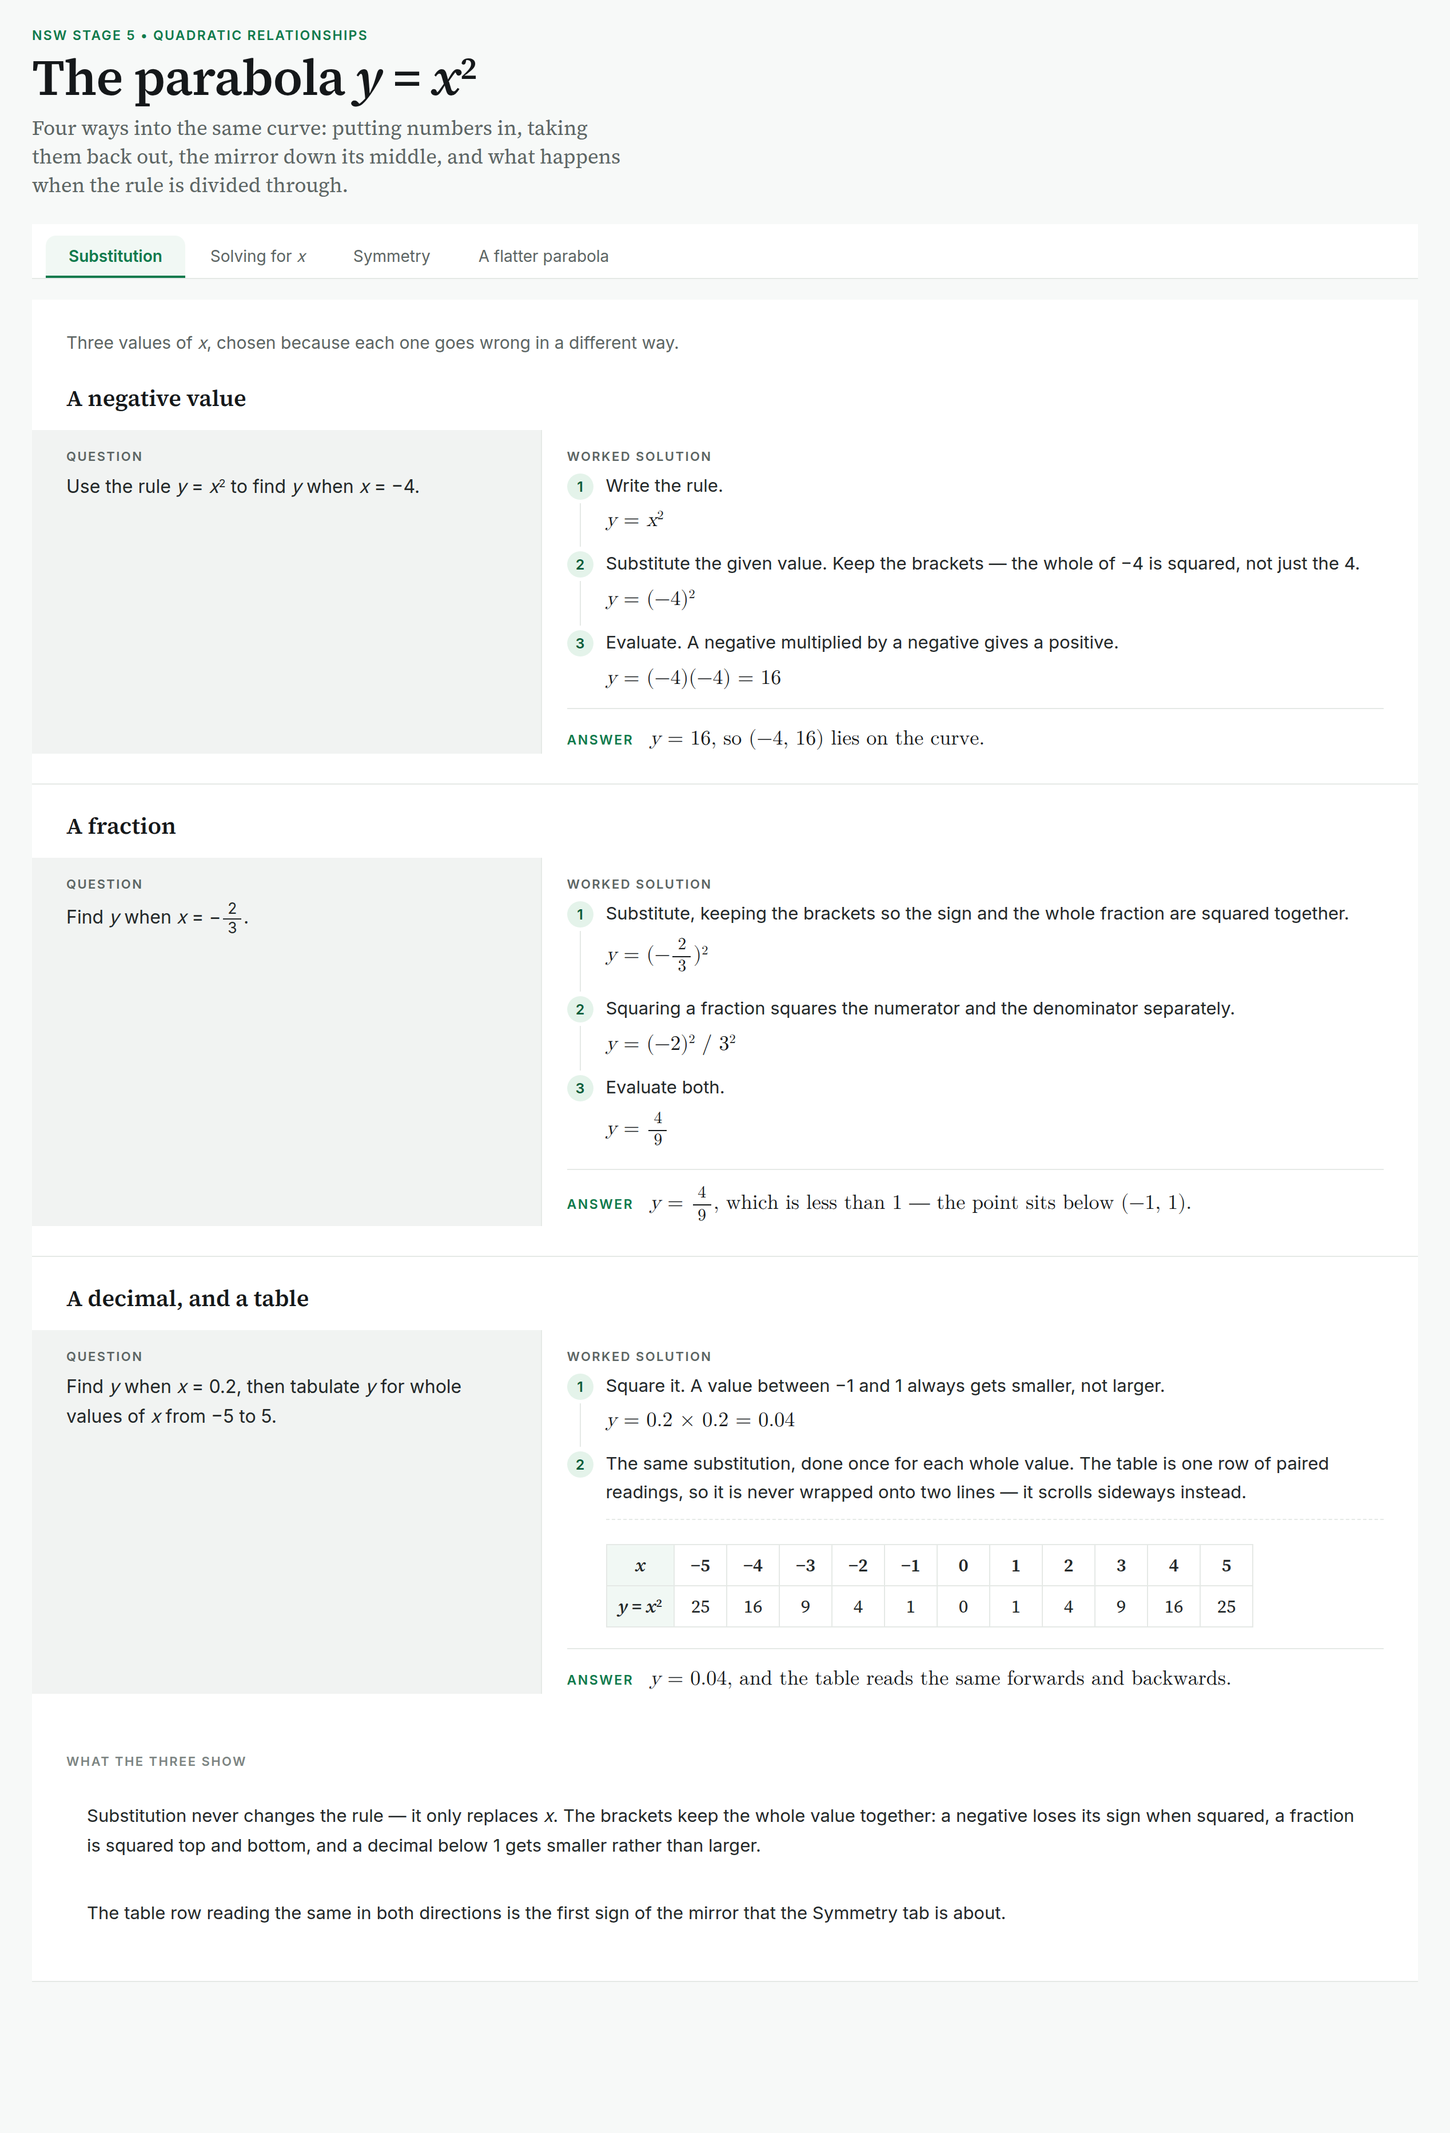
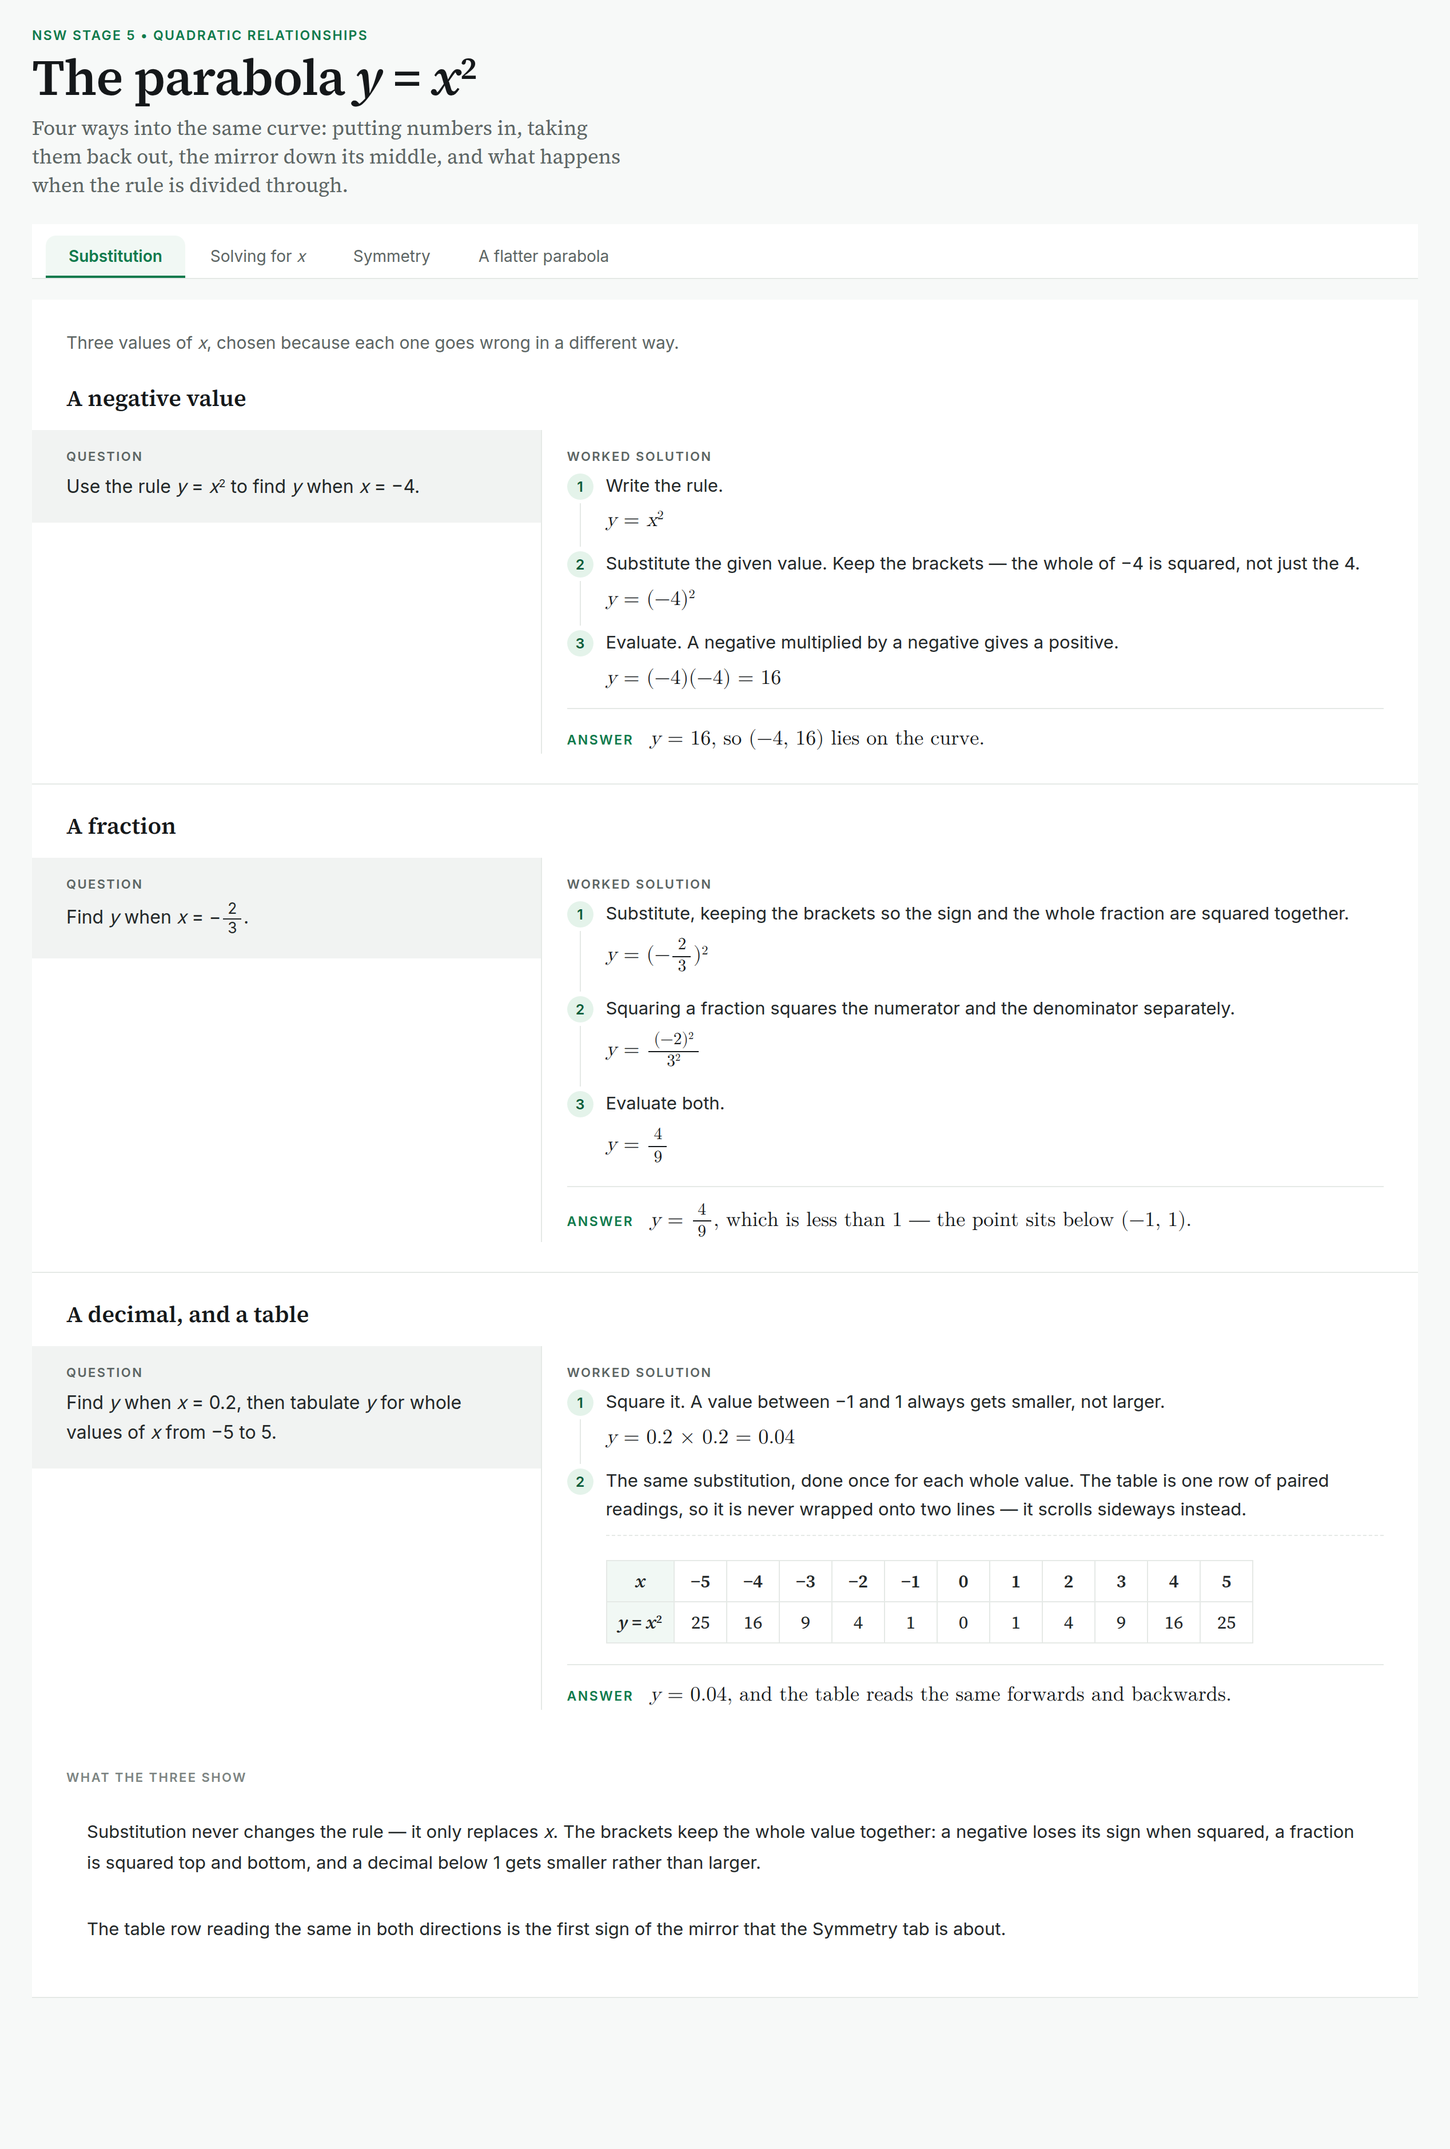
app: the question panel hugs its content, and a bracketed term is a term
Two corrections the maintainer asked for after reviewing the lesson running in
the application, plus the three-mode acceptance check.

THE QUESTION PANEL. A worked example forced both its QUESTION and its WORKED
SOLUTION to the row's full height, on the stated principle that "the regions are
aligned, never the amount of content in them". Measured on the real lesson that
painted a 63px question inside a 283px tinted panel — 220px of empty tint — and
the maintainer ruled that a defined region at that scale reads as a hole however
deliberately it was reserved. The regions now share a TOP EDGE, not a depth:

  question panel, desktop   283px -> 81px
  empty tint below it       220px -> 18px (its own padding)
  the rule between them     full band, unchanged

One declaration: align-self:start on .mx-wexask, scoped to split rows. NOT
align-items:start on the row, and the difference is not cosmetic — the rule
between the regions is the WORKING's left border, so the working has to go on
stretching or the rule stops short. Measured both ways against a deliberately
over-long question: with the row set to `start` the rule ended 350px above the
band; this way it spans it. Stacked already hugged. The comparison bridge's
three full-height zones and the media foot are a different rule and are
untouched. This is the same reasoning .mx-split already applies to the two Notes
columns a layer up.

THE CONTROL IS REVERSED, NOT DROPPED. verify-notes-examples required
[…]

diff --git a/lesson-studio.html b/lesson-studio.html
@@ -1970,9 +1970,13 @@ input.mx-cell:focus{outline:2px solid var(--mx-green);outline-offset:1px;border-
 /* THE PRIMITIVE — ONE WORKED EXAMPLE IS ONE NAMED-REGION RECTANGLE, and the browser lays out the regions:
        TITLE spanning the whole example
        QUESTION | WORKED SOLUTION … ANSWER
-   The prose and the mathematics merely flow inside them. THE REGIONS ARE ALIGNED, NEVER THE AMOUNT OF
-   CONTENT IN THEM: both regions take the row's full height, so a short question beside a long solution is a
-   short question in a visibly defined rectangle, not a hole. The same rules serve `standard` (one instance),
+   The prose and the mathematics merely flow inside them. THE REGIONS ARE ALIGNED AT THEIR TOP, AND EACH
+   TAKES THE HEIGHT ITS OWN CONTENT NEEDS. The alignment that matters is positional — one top edge, one
+   inset, one rule — not two backgrounds padded to a common depth. This reverses the earlier rule that made
+   both regions the row's full height: measured on the lesson, a 63px question was painted in a 283px tinted
+   panel, and 220px of empty tint reads as a hole however deliberately it was reserved. It is the same
+   reasoning `.mx-split` already applies to the two Notes columns a layer up. The same rules serve
+   `standard` (one instance),
    `sequence` (N instances, identical geometry at every count — no 2 + 1, no centred remainder), a staged
    state, an extended derivation and each case of a collapsed comparison. Nothing here reads a count. */
 .mx-wexseq{display:flex;flex-direction:column;margin:0 calc(-1 * var(--mx-surface-pad));}
@@ -2006,7 +2010,12 @@ input.mx-cell:focus{outline:2px solid var(--mx-green);outline-offset:1px;border-
 [data-mx-rows="split"] .mx-wexseq>.mx-wexex:not([data-mx-form="solo"]){
   grid-template-columns:minmax(calc(var(--mx-ask-min,300px) + var(--mx-ask-pad,16px)),36fr) minmax(calc(var(--mx-work-min,420px) + var(--mx-work-pad,22px) + 1px),64fr);
   grid-template-areas:"title title" "ask work";}
-[data-mx-rows="split"] .mx-wexseq>.mx-wexex:not([data-mx-form="solo"])>.mx-wexask{margin-right:0;padding-right:var(--mx-ask-pad,16px);}
+/* THE TINT ENDS WHERE THE QUESTION DOES. `align-self:start` on the ask alone — not `align-items:start` on
+   the row — because the working must go on stretching: the rule between them is the WORKING's left border,
+   so stretching only the ask's neighbour is what keeps that rule running the full band when the question is
+   the taller of the two. Measured both ways on a deliberately long question: with the row set to `start`
+   the rule stopped 350px short of the band; this way it spans it. Split only — stacked already hugs. */
+[data-mx-rows="split"] .mx-wexseq>.mx-wexex:not([data-mx-form="solo"])>.mx-wexask{margin-right:0;padding-right:var(--mx-ask-pad,16px);align-self:start;}
 [data-mx-rows="split"] .mx-wexseq>.mx-wexex:not([data-mx-form="solo"])>.mx-wexwork{border-left:1px solid var(--mx-line);padding-left:var(--mx-work-pad,22px);}
 /* ANSWER — THE FINAL BAND OF THE WORKING REGION, not a card: a rule above it, the label run in, the value
    flowing as text so a wrapped answer returns to the region's own inset. No box, no radius, no fill. Green
@@ -7324,11 +7333,24 @@ function mxPlain(v){ return String(v==null?'':v).replace(/_([A-Za-z])_/g,'$1').r
    brackets. Digits only — deliberately narrow, so ordinary prose ("and/or", a date) is never touched — and
    the parenthesised form first, so its brackets can grow to the built-up height. Three digits a side keeps
    a year range ("1914/1918") out of it. */
+/* the two sides a fraction may have: a bracketed signed integer (optionally squared), or a plain one */
+const MX_FRAC_T = '\\((?:\\u2212|-)?\\d{1,3}\\)(?:\\^\\d)?', MX_FRAC_D = '\\d{1,3}(?:\\^\\d)?';
 function mxM(v){
   return esc(v==null?'':String(v))
     .replace(/\((\d+)\/(\d+)\)/g,'<span class="mx-pfrac">$&</span>')
     .replace(/<span class="mx-pfrac">\((\d+)\/(\d+)\)<\/span>/g,
       '<span class="mx-pfrac"><span class="mx-frac"><span>$1</span><span>$2</span></span></span>')
+    /* A BRACKETED TERM IS A TERM. `(\u22122)^2 / 3^2` is one value over another exactly as `3^2/2^2` already
+       was; the brackets and the spaces around the divide were the only reason it printed as a slash, in the
+       middle of a worked example whose other two steps built up. The brackets are also what makes the spaces
+       safe here — ordinary prose does not write `(\u2026)/\u2026`, so whitespace that would be reckless around bare
+       digits is inert beside a bracket. ONE SIDE MUST BE BRACKETED, or this would reach `1914 / 1918`. A
+       variable numerator (`_x_^2 / 12`, `1/x`) is deliberately still a slash: widening to letters would
+       rewrite existing lessons, and nothing has asked for it. */
+    .replace(new RegExp('(^|[\\s=+])((?:' + MX_FRAC_T + ')\\s*\\/\\s*(?:' + MX_FRAC_T + '|' + MX_FRAC_D + ')'
+      + '|(?:' + MX_FRAC_D + ')\\s*\\/\\s*(?:' + MX_FRAC_T + '))(?![\\w\\/])', 'g'),
+      (m, pre, body) => { const i = body.indexOf('/');
+        return pre + '<span class="mx-frac"><span>' + body.slice(0, i).trim() + '</span><span>' + body.slice(i + 1).trim() + '</span></span>'; })
     .replace(/(^|[\s(=+\u2212-])(\d{1,3}(?:\^\d)?)\/(\d{1,3}(?:\^\d)?)(?![\d\/])/g,
       '$1<span class="mx-frac"><span>$2</span><span>$3</span></span>')
     .replace(/_([A-Za-z])_/g,'<i>$1</i>')
@@ -8071,10 +8093,11 @@ function mxWexSteps(ex,range){
        TITLE, spanning the whole example
        QUESTION | WORKED SOLUTION
                 | ANSWER — the final band of the working
-   THE REGIONS ARE ALIGNED, NEVER THE AMOUNT OF CONTENT IN THEM. A one-line question beside a five-step
-   solution is a short question in a region as tall as the solution; the region is a visible rectangle, so
-   the space below the question is a defined region, not a hole. The QUESTION and WORKED SOLUTION labels
-   begin on the same line beneath the title; everything is left-aligned to one inset.
+   THE REGIONS SHARE A TOP EDGE, NOT A DEPTH. A one-line question beside a five-step solution is a short
+   tinted band, not a tall one padded out to the solution's height — the region is still a visible
+   rectangle, it simply ends where its content does. The working keeps the row's full height, so the one
+   quiet rule between them runs the whole band even when it is the QUESTION that is taller. The QUESTION and
+   WORKED SOLUTION labels begin on the same line beneath the title; everything is left-aligned to one inset.
    `standard` is one instance of this. `sequence` is N identical instances, stacked. A staged state, an
    extended derivation and each case of a collapsed comparison are the same instance again. There is no
    second function and no second stylesheet for a "row": nothing here reads the count, the length of the

diff --git a/CHANGELOG.md b/CHANGELOG.md
@@ -7,7 +7,52 @@ All notable changes to **Lesson Studio** are recorded here. Format follows
 
 ## [Unreleased]
 
+### Changed
+- **The question panel hugs its content — a rule reversed, and its control reversed with it**
+  (`lesson-studio.html`). A worked example's QUESTION and WORKED SOLUTION were both forced to the row's
+  full height, on the principle that "the regions are aligned, never the amount of content in them".
+  Measured on the real lesson, that painted a **63px question inside a 283px tinted panel — 220px of empty
+  tint**, and the maintainer ruled that a defined region at that scale reads as a hole however deliberately
+  it was reserved. The regions now share a TOP EDGE, not a depth.
+
+  | | before | after |
+  |---|---|---|
+  | question panel, desktop | 283px | **81px** |
+  | empty tint below the question | **220px** | 18px (its own padding) |
+  | the rule between them | full band | full band — unchanged |
+
+  The change is one declaration — `align-self:start` on `.mx-wexask`, scoped to `[data-mx-rows="split"]` —
+  and NOT `align-items:start` on the row. The difference matters: the rule between the regions is the
+  *working's* left border, so the working must go on stretching or the rule stops short. Measured both ways
+  against a deliberately over-long question: with the row set to `start` the rule ended **350px above** the
+  band; this way it spans it. Stacked, solo, the comparison bridge and the media foot are untouched — the
+  bridge's three full-height zones are a different rule and stay.
+- **`verify-notes-examples` — the assertion is reversed, not dropped.** It required
+  `ask.b === work.b`, which is precisely the defect that was reported, so leaving it would have kept the old
+  rule enforced and deleting it would have left the new one unguarded. It now asserts that the tops meet,
+  that the gap below the question is the region's own padding and nothing more, and that the working still
+  spans the band. **Two new controls, both driven to failure:** restoring the old stretch makes the tint run
+  **220px** past the question (the reported defect, now permanently caught), and stopping the working
+  stretching beside a taller question catches the rule **286px** short. 123/123.
+- **A bracketed term is a term** (`mxM()`). `(−2)^2 / 3^2` printed as a slash in the middle of a worked
+  example whose other two steps built up, because the fraction grammar was digits-only. It now also accepts
+  a bracketed signed integer on either side, which is what makes the surrounding spaces safe — ordinary
+  prose does not write `(…)/…`. **One side must be bracketed**, or the rule would reach `1914 / 1918`.
+  Tested differentially against 36 strings drawn from the repo's own content: the target case changes and
+  **nothing else does**, including `1/x`, `_x_^2 / 12`, `C5/C6`, `Stage 2c/3c/3d`, file paths, URLs, `km/h`,
+  `and/or` and every fraction that already built up. A variable numerator stays a slash on purpose —
+  widening to letters would rewrite existing lessons and nothing asked for it.
+
 ### Added
+- **Study, Edit and Present are now part of the app-lesson pass** (`scripts/shots-quadratics-app.mjs`,
+  14 checks). The honest finding is recorded rather than an invented per-mode difference: the mathematics
+  page family has **no inline edit affordance** — `renderCanvas` sets `mode='study'` for the duration of a
+  responsive page and restores it after, and `tagZones` only hooks the legacy canvas slide types — so Edit
+  renders Study-identical by design. What is asserted is that the whole lesson survives all three intact
+  (4 tabs / 19 steps / 7 answers / 1 table / 5483 chars in each), that each mode really is the mode it
+  claims, and that leaving Present gives the lesson back.
+
+### Added (the application integration)
 - **The quadratics lesson, in the actual application** (`docs/atlas/lesson/quadratics.app.json`,
   `scripts/shots-quadratics-app.mjs`, `docs/atlas/app-lesson/`). The complete lesson — four
   subtopics, nineteen worked steps, the table of values, both Symmetry representations and both

diff --git a/HANDOFF.md b/HANDOFF.md
@@ -730,21 +730,23 @@ renderer is referenced.
   `docs/atlas/composition/src/{grid.json,patterns.json}` or `atlas.json`'s bands. The catalogue stays
   the one owner.
 
-  **THREE DIFFERENCES FROM THE APPROVED STANDALONE RENDER remain, all app behaviour rather than
-  integration damage, none of them corrected:**
+  **THREE DIFFERENCES FROM THE APPROVED STANDALONE RENDER were reported after the integration. TWO ARE
+  NOW FIXED at the maintainer's direction (21 Sep); the first remains open and is not to be expanded:**
   1. **A height bound the catalogue does not have.** `MX_PLOT_H = 720` caps a plane's height, so a
      very tall plane takes less than its span. It never binds on this lesson (the tallest plane is
      702px), but the composition catalogue has no height cap at all — "the page scrolls" — so the two
      would disagree on a plane taller than about 12 units at this width.
-  2. **A narrow fraction grammar.** `mxM()` builds `−2/3` and `4/9` into vertical fractions but leaves
-     `(−2)^2 / 3^2` as a slash, because the rule is digits-only on purpose. One step of the fraction
-     example therefore reads inconsistently with the two around it. Widening the grammar is a
-     maintainer call, not a renderer's.
-  3. **The ask column stretches to the working's height.** In a `standard` worked-example row the grey
-     QUESTION panel matches the worked solution's height, which on a short question leaves a large
-     tinted void. Pre-existing (`.mx-wexrow`, untouched by this work — the corpus renders byte-identical
-     against `main`), visible on the Substitution tab, and the next thing worth looking at in the app's
-     own layout.
+  2. ~~**A narrow fraction grammar.**~~ **FIXED 21 Sep** — `mxM()` now also takes a bracketed signed
+     integer on either side, so `(−2)^2 / 3^2` builds up like the two steps around it. ONE SIDE MUST BE
+     BRACKETED, which is what keeps the surrounding spaces safe and `1914 / 1918` out of it; tested
+     differentially against 36 strings from the repo's own content, of which only the target changed. A
+     VARIABLE numerator (`_x_^2 / 12`, `1/x`) is still deliberately a slash: widening to letters would
+     rewrite existing lessons, and the maintainer asked only for consistency inside the worked example.
+  3. ~~**The ask column stretches to the working's height.**~~ **FIXED 21 Sep** — the maintainer reviewed
+     the app renders, ruled that the regions share a top edge rather than a depth, and it is done:
+     `align-self:start` on `.mx-wexask` in split rows only. Question panel 283px → 81px, empty tint
+     220px → 18px. The rule between the regions still spans the band, because only the ask hugs and the
+     working goes on stretching — the one declaration `align-items:start` would have got wrong.
 
   **TWO PIECES OF OUTSTANDING WORK, RECORDED FOR A LATER PHASE — neither is to be expanded now:**
   1. **The image block.** `block()` in `scripts/composition-atlas.mjs` sends every media block through
